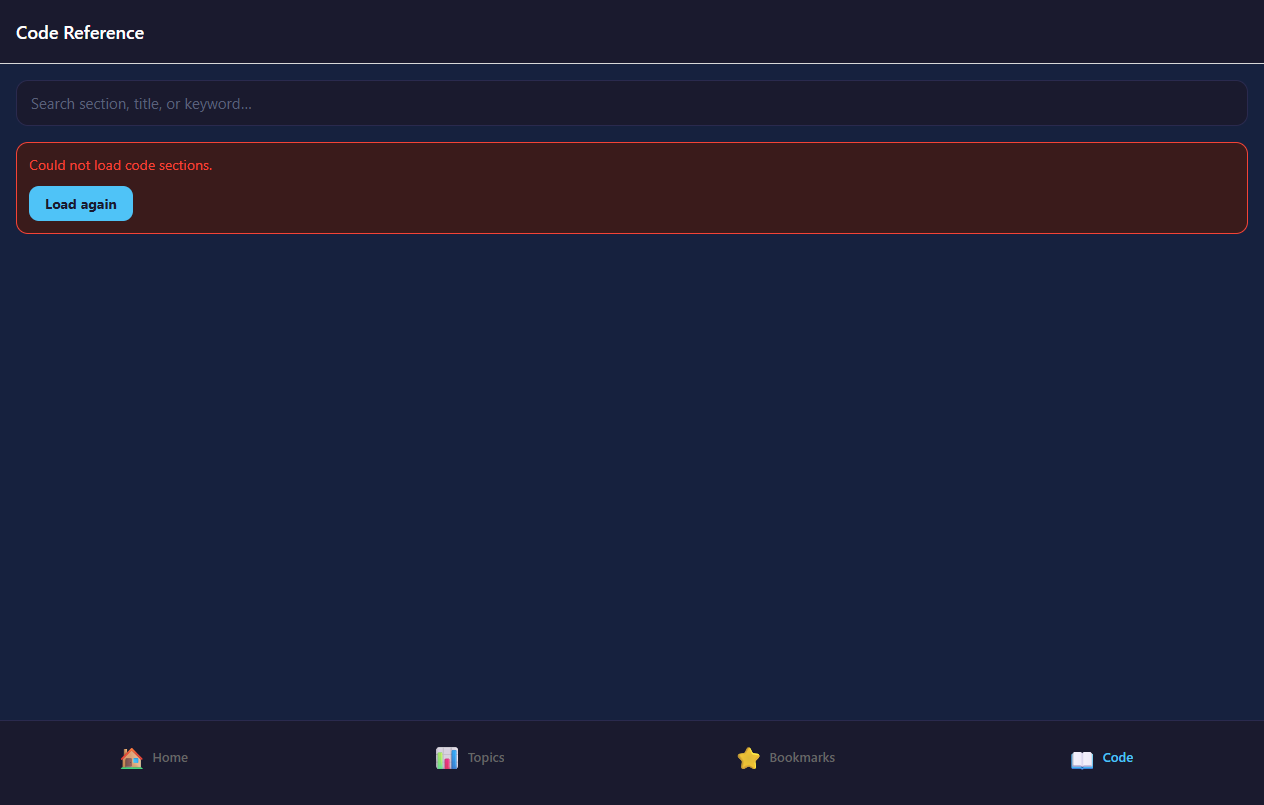
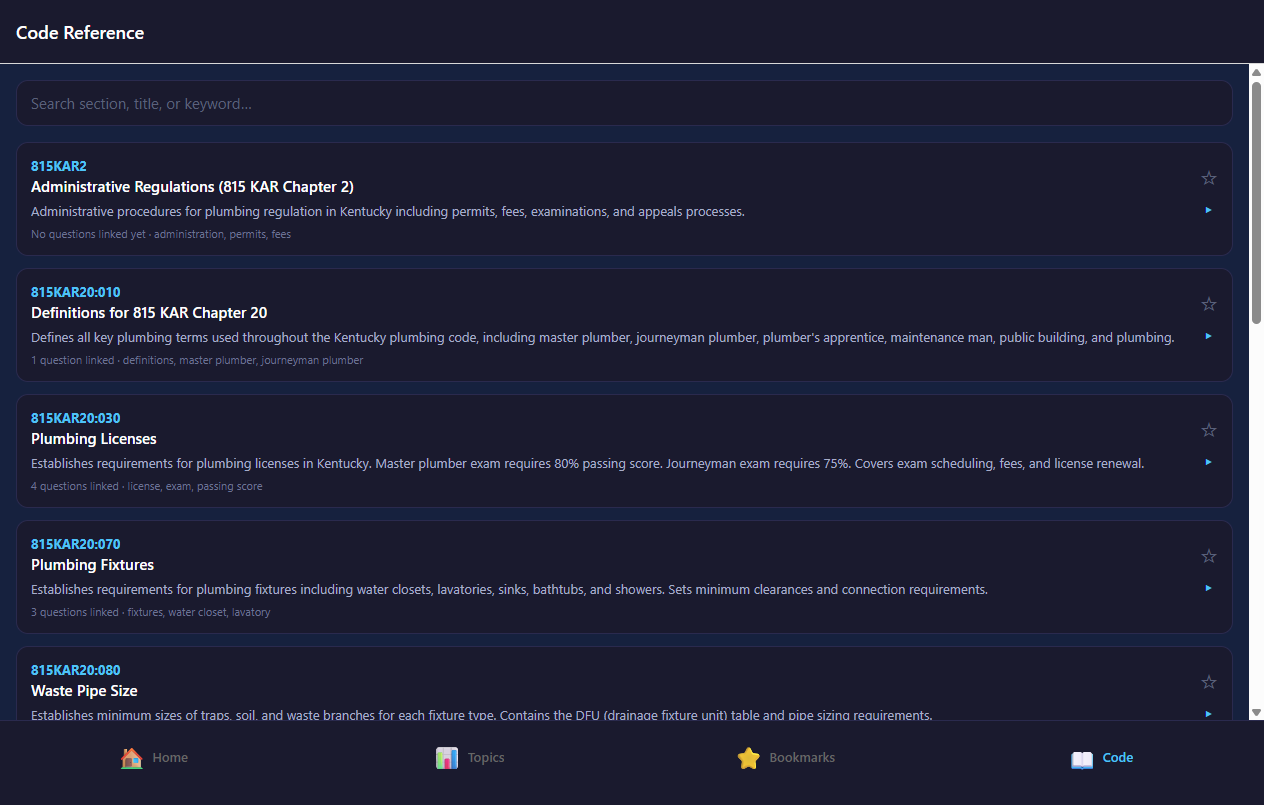
Round 22 closeout: web OPFS pool-race fix documented and re-proven on the committed tree (565d547) — 30-gate suite PASS on 8081, live checks PASS on 8081+8090, warm full-page-nav /code repro green; lessons 17 (one sync handle per file; verify vendor patches by string literals) and 18 (beforeunload i

diff --git a/tasks/PHASE-CHECKLIST.md b/tasks/PHASE-CHECKLIST.md
@@ -59,32 +59,35 @@ Rule: only `verified:1` questions ever enter a study mode (drill / missed / mock
 - [ ] Fully offline on a real phone (airplane mode), iOS + Android. *(P1 pass pre-P3; P3 re-test outstanding with the owner.)*
 - [ ] Owner runs one full study cycle on their phone and confirms it "feels done."
 
-**STATUS (2026-08-24, round 21):** every gate green on the final code —
-web E2E **30/30 solo** (`tools/e2e-chrome.cjs`) + auto-submit **re-proven on
-final code** (`tools/e2e-autosubmit.cjs`, hard DB-backed: exactly one mock
-session, completed at 75.0 min) + **live-server proof**
-(`tools/live-web-check.cjs`: the running :8081 dev server boots and seeds the
-real app — home `q=41`, `/code`, `/bookmarks` render; evidence
-14/15/16). Round 17: P4
-consistency audit (verified=1 fetch/count agreement + unified states).
-Round 18: **Metro zombie-proofing** — the long-lived dev server now ignores
-`tools/`, `tasks/`, `dist/` via a root-anchored `resolver.blockList` pattern
-(the fatal FallbackWatcher tmpdir crashes, lesson 13 ×2, root-caused and
-closed — first unanchored attempt over-blocked `node_modules/*/dist` and broke
-web resolution, caught + fixed same round). Branch pushed to origin.
-Round 21: **static-export artifact proven standalone** — `dist/` re-exported on
-the final tree and booted through a plain static HTTP server
-(`node tools/static-web.cjs` → :8090, no Metro, no Expo runtime): home seeds
-`q=41` in OPFS, `/code` + `/bookmarks` render (evidence
-17/18/19); the probe's first run caught a **real UX defect a cold full-page
-navigation of `/code` hits** — its `Promise.all` load can lose the
-first-hard-load race and the old error card was a dead end (no retry) that
-even rendered the "No matches" empty state on top of it. Fixed on all three
-tabs (`code`/`topics`/`bookmarks`): error card now carries **Load again**, the
-empty state suppresses while an error is active, and a load re-arms the
-loading indicator. Lesson 16 added.
-Remaining: owner's §C* web click-through (http://localhost:8081), C2 phone
-re-test both devices, "feels done", EAS handoff.
+**STATUS (2026-08-24, round 22):** the web full-page-navigation DB race is
+**fixed and proven on the committed tree** — expo-sqlite's web backend holds
+six OPFS sync-access handles per file for the whole worker's life, and Chromium
+allows only ONE per file, so after a hard navigation the dying document's
+worker kept the pool locked until Chrome GC'd it (sticky "Invalid VFS state"
+in the new doc). Three-part fix, all web-only:
+1. `vendor/expo-sqlite-web/worker.ts` (vendored + postinstall script in
+   `scripts/`) — `closeDatabase` releases the pool VFS's sync handles when the
+   last db closes; `maybeInitAsync` no longer poisons the worker on a partial
+   VFS failure (next open retries).
+2. `app/_layout.tsx` — on **pagehide OR visibilitychange OR beforeunload**
+   (whichever fires first; CDP hard navigation fires `beforeunload`, not
+   `pagehide`) the web root closes the db → deterministic handle release
+   before the incoming document's worker starts.
+3. `lib/database.ts` — web-only boot retry (10 attempts, ≤ ~11.6 s worst case
+   under the root splash) as the safety net; native stays one attempt.
+Proven end-to-end on the committed tree (`565d547`): warm full-page nav
+(home → `Page.navigate` /code) lands `815KAR20` with seam `q=41 cs=12`,
+zero page errors, close fired in both leaving docs
+(`tools/_diag-code.cjs` on :8090 static); close-path probe proves
+`closeAsync` → "Database not found" (worker really released;
+`tools/_diag-close-probe.cjs`); **30-gate suite ALL STEPS PASSED on :8081**;
+live checks PASS on both :8081 (evidence 14/15/16) and :8090
+(evidence 17/18/19, re-screenshotted this round — also resolved the
+0-byte ADS strays that had clung to those names). Remaining: owner's §C*
+web click-through (http://localhost:8081), C2 phone re-test both devices,
+"feels done", EAS handoff. Prior history: P4 consistency audit
+(`73e5c31`), Metro zombie-proofing (round 18), static-export artifact
+proven standalone (round 21, Load-again everywhere).
 
 **P4 consistency audit (round 17, `73e5c31`):**
 - **`verified=1` in every study-fetch path.** Re-verified all 7 question fetches

diff --git a/tasks/todo.md b/tasks/todo.md
@@ -68,7 +68,7 @@ Expo + React Native + TypeScript
 > `react-native-worklets` — see `package.json`. Metro config adds `wasm` to
 > `resolver.assetExts` for the expo-sqlite web worker (`metro.config.js`).
 
-## STATUS (shipped as of 2026-08-18, branch `claude/general-session-jCAfN`)
+## STATUS (shipped as of 2026-08-24, round 22, branch `claude/general-session-jCAfN`, commit `565d547`)
 - **P0 green:** deps pruned; web + iOS + Android Metro exports all resolve clean.
 - **P1 green:** `eas.json` (development/preview/production), app identity
   `com.brian.plumberprep` (provisional — change before first store build),
@@ -84,23 +84,25 @@ Expo + React Native + TypeScript
   case-insensitive, "1/2"≡"0.5"); spaced-rep due-queue blended to the TOP of
   Drill + Mock decks (`getDeckWithDue`); `bookmarks` table + Bookmarks tab
   (questions + code sections, editable notes, tap-through).
-- **P4 verifying (2026-08-24, branch `claude/general-session-jCAfN`, commit `1dff063`):**
-  web end-to-end re-proven on the shipped core — `node tools/e2e-chrome.cjs`
-  **30/30 gates PASS solo** (mock full cycle incl. per-topic breakdown, 50-Q
-  scaling to 41 Q / 123 min, drill full cycle + bookmark + note + SQLite
-  persistence across reload, due-queue LEAD, code search/star, fill-blank
-  "0.5"≡"1/2"), `node tools/e2e-autosubmit.cjs` **PASS on final code**
-  (75-min real countdown → "Time expired — exam was auto-submitted.", one DB
-  session closed at 75.0 min — hard DB-backed `dbOk`), and
-  `node tools/live-web-check.cjs` **PASS** (the running :8081 dev server boots
-  + seeds the real app: home, /code, /bookmarks). Fixes since the last green
-  anchor: drill/missed `startDrill` session-id mismatch (sessions never closed
-  on disk), a `startExam` double-press re-entrancy guard, the Code Reference
-  `verified=1` fetch/count consistency gap, wa-sqlite-safe E2E SQL, and a
-  root-anchored Metro `resolver.blockList` that stops the fatal FallbackWatcher
-  tmpdir crash. Remaining: owner's §C* web click-through (http://localhost:8081),
-  C2 phone re-test on both devices, "feels done" sign-off, EAS production
-  handoff.
+- **P4 web full-page-nav DB race fixed (round 22, the last green anchor):**
+  expo-sqlite's web backend holds six OPFS sync-access handles for the whole
+  worker's life and Chromium allows only ONE per file, so after a hard
+  navigation the dying document's worker kept the pool locked until GC.
+  Three-part web-only fix: (1) `vendor/expo-sqlite-web/worker.ts` vendored +
+  postinstall script — `closeDatabase` releases pool handles when the last db
+  closes, `maybeInitAsync` retries on next open after partial VFS failure;
+  (2) root `_layout.tsx` closes the db (web only) on whichever of pagehide /
+  visibilitychange / beforeunload fires first — CDP-style hard navigation
+  fires `beforeunload`, not `pagehide`; (3) `lib/database.ts` web-only boot
+  retry (10 attempts, ≤ ~11.6 s worst case, native still one attempt).
+  Proven on the committed tree: warm full-page nav (home → navigated `/code`)
+  lands `815KAR20`, seam `q=41 cs=12`, zero page errors, close fired in both
+  leaving docs; close-path probe shows the worker really releases ("Database
+  not found" right after `closeAsync`); **30-gate suite ALL STEPS PASSED**;
+  live checks PASS on :8081 and :8090 (evidence 14–19 re-screenshotted, which
+  also cleared the 0-byte ADS strays off those names). Remaining: owner's §C*
+  web click-through (http://localhost:8081), C2 phone re-test both devices,
+  "feels done" sign-off, EAS production handoff.
 - **P4 remaining:** owner offline re-test after P3 on both phones, re-verify
   flows, EAS production handoff (`eas build --platform ios|android --profile
   production`), and this doc's sign-off box below.

diff --git a/tasks/lessons.md b/tasks/lessons.md
@@ -86,6 +86,19 @@
   3. Gate rendering states in order — `loading` → `error` → `empty` → content: while `error` is active, suppress the empty list ("No matches against a broken fetch is a lie") and re-arm the loading indicator when a retry starts.
 - **Date**: 2026-08-24
 
+### 17. [web] One open `FileSystemSyncAccessHandle` per file — the web OPFS pool race
+- **Pattern**: expo-sqlite's web backend keeps every SQLite file in a pool of 6 OPFS files, each opened with a `FileSystemSyncAccessHandle` held for the whole worker's life. Chromium allows exactly ONE open sync handle (or writable stream) per file. After a hard full-page navigation the previous document — garbage but not yet GC'd — still owns those handles, so the new document's pool-VFS create fails (`NoModificationAllowedError`) and, unpatched, the failure strands `maybeInitAsync` with `_sqlite3` set / `_vfs` null → sticky "Invalid VFS state" for the new document's *entire* life (retrying within the same doc never recovers). App-side retry alone (boot v2–v4) only won once Chrome GC'd the old doc (observed > 6.4 s), which is why those generations all still failed the home→`/code` full-page-nav repro.
+- **Rule**:
+  1. Release the pool handles *deterministically* in the outgoing document: the worker's `closeDatabase` calls `vfs.close()` when `databaseIdMap.size === 0`, and the app calls it (web only) from the page-hidden events. A `console.log` in that path is worth its weight in gold for proving the release actually ran — a CDP console buffer spanning N documents otherwise gives "looks patched / looks unpatched" ambiguity.
+  2. Keep `#acquireAccessHandles` **throw-on-blocked** (the blocked file may be the actual DB — skipping it would re-create fresh pool files and silently lose data); retry-after-release is the safe recovery, with the web-only boot retry (≤ ~11.6 s worst case, under the root splash) as safety net.
+  3. Verify a *vendor patch* in the built bundle by its **string literals** — terser strips comments and mangles names, so grep the minified chunk for a unique `console.log`/`Error` message, not patch comments or identifiers.
+- **Date**: 2026-08-24
+
+### 18. [testing] On hard navigation, `beforeunload` fires — `pagehide` often does not
+- **Pattern**: The close-on-navigate hook existed only as a `pagehide` listener; the diagnostic showed no close fired on CDP `Page.navigate`, yet a direct `closeAsync()` call from the page context worked perfectly (probe: `closed-ok` → "Database not found"). On Chromium hard navigation, `beforeunload` fires on the still-alive document while `pagehide` lands as the process is already tearing down.
+- **Rule**: Register the release across `pagehide`, `visibilitychange(hidden)`, AND `beforeunload`, with a **first-wins latch** (`if (closed) return`) so the third is a no-op after the first wins. One `pagehide` listener is not enough — always test against CDP hard navigation specifically: it is the least event-generous case a real user can hit.
+- **Date**: 2026-08-24
+
 ## Format
 Each lesson should include:
 - **Category tag**: [auth], [db], [testing], [ui], [infra], [content], [expo], [navigation]

diff --git a/tasks/PHONE-ONBOARDING.md b/tasks/PHONE-ONBOARDING.md
@@ -72,10 +72,23 @@ no red error boxes).
 
 ## C*. Your web click-through (do this first — ~10 min, no install)
 The web build is the same app, same SQLite, same screens. Browser to
-**http://localhost:8081** (dev server) — or any exported `dist/web` after
-`node tools/static-web.cjs` on port 8090 (proven 2026-08-24 to boot + seed
-separately from the dev server). Gate: same behavior as the phone test, no
-phone involved.
+**http://localhost:8081** (dev server) — or the exported build on port 8090
+via `node tools/static-web.cjs` (both proven 2026-08-24, round 22, after the
+web OPFS fix). Gate: same behavior as the phone test, no phone involved.
+
+> **Round 22 note — where this used to hurt and what to look for.** A hard
+> full-page navigation (typing a URL directly, opening a link from another
+> tab, or refreshing) used to occasionally dead-end on the web: the previous
+> page held the database file locks until Chromium's garbage collector
+> finished, and the new page reported a DB error with no recovery. That is
+> fixed — when a page leaves, the app now releases its database handles
+> immediately, so the incoming page boots clean. Worst case you may see the
+> splash for up to ~12 s longer than usual; a tab-error card (if one ever
+> appears) has **Load again**. One suggested extra check while you're here:
+> from Home, open **http://localhost:8081/code** in a *new* browser tab and
+> hard-refresh that tab twice — both should show the code list, not an error
+> card.
+
 1. **Home** loads (no spinner stuck), shows your 41-question bank + streak
    stats.
 2. **Drill** — start a 10-Q run, answer, get one wrong on purpose; the
